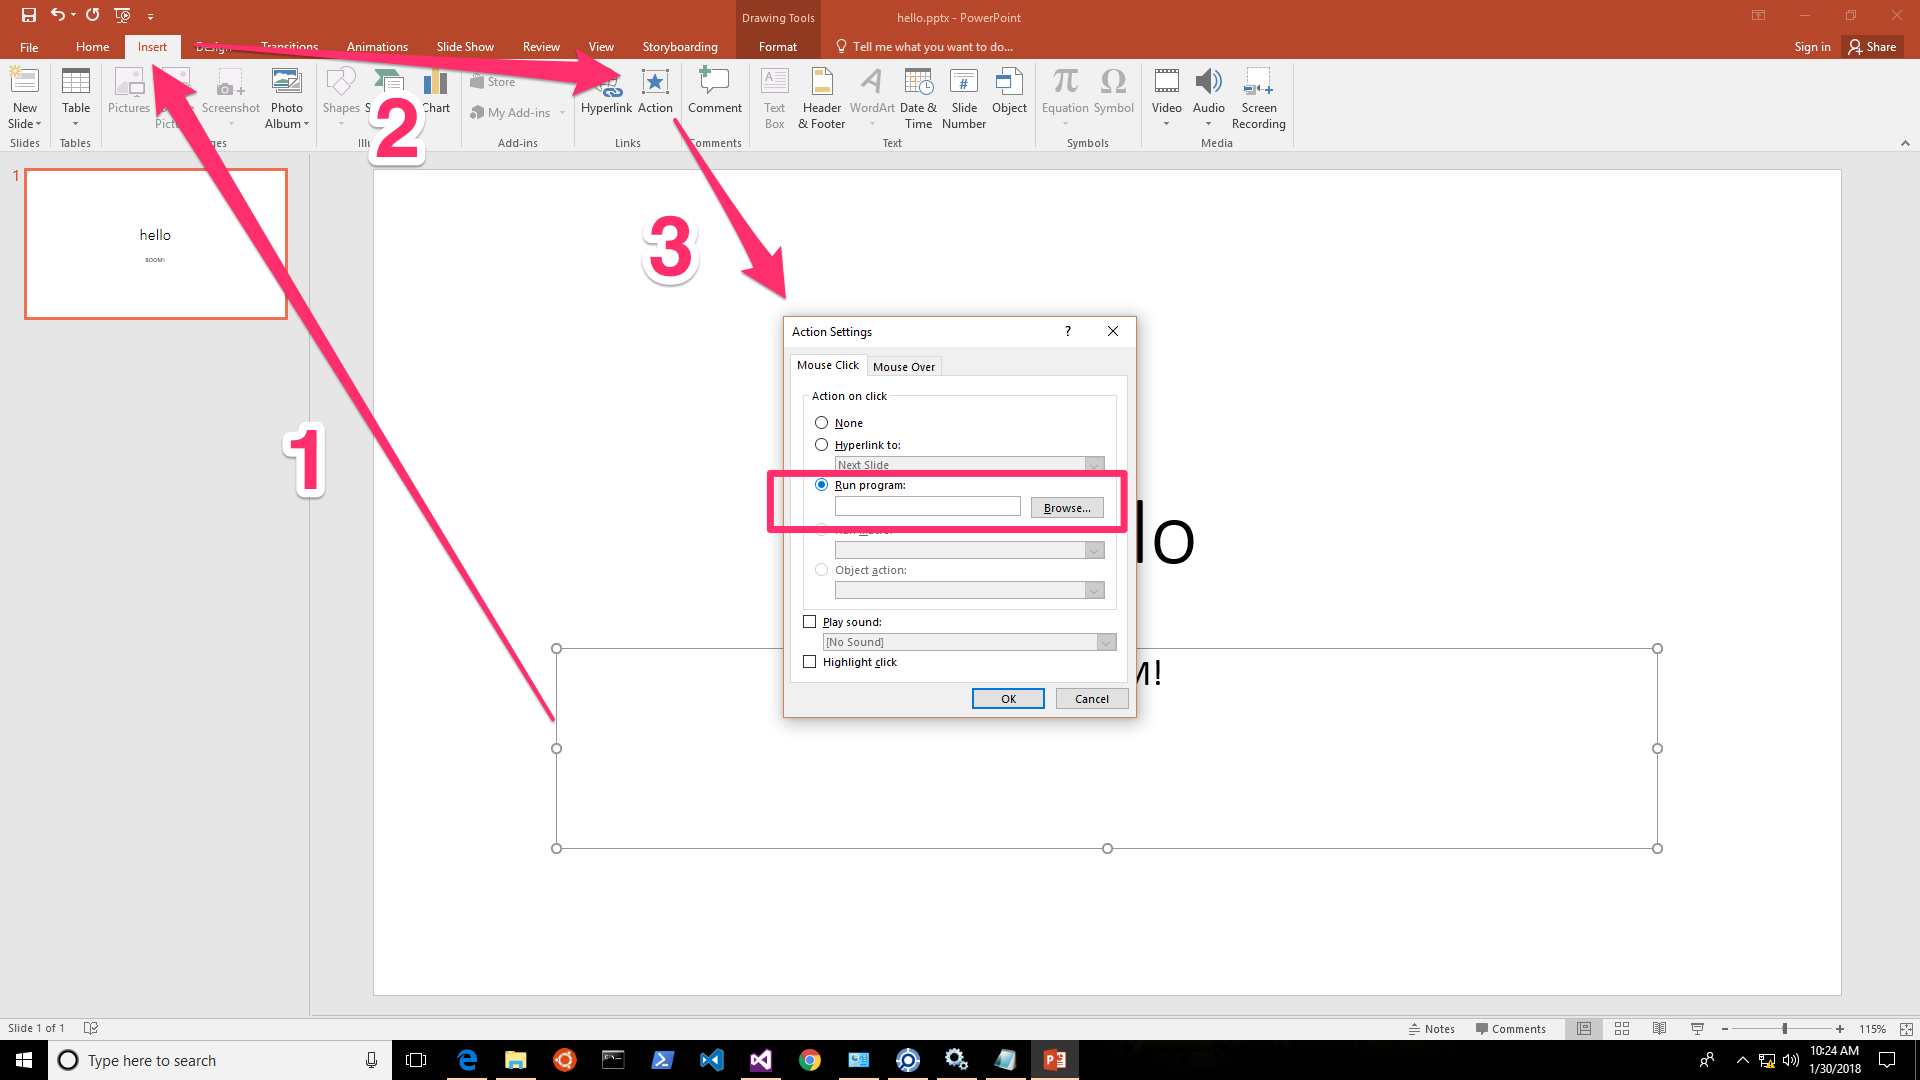
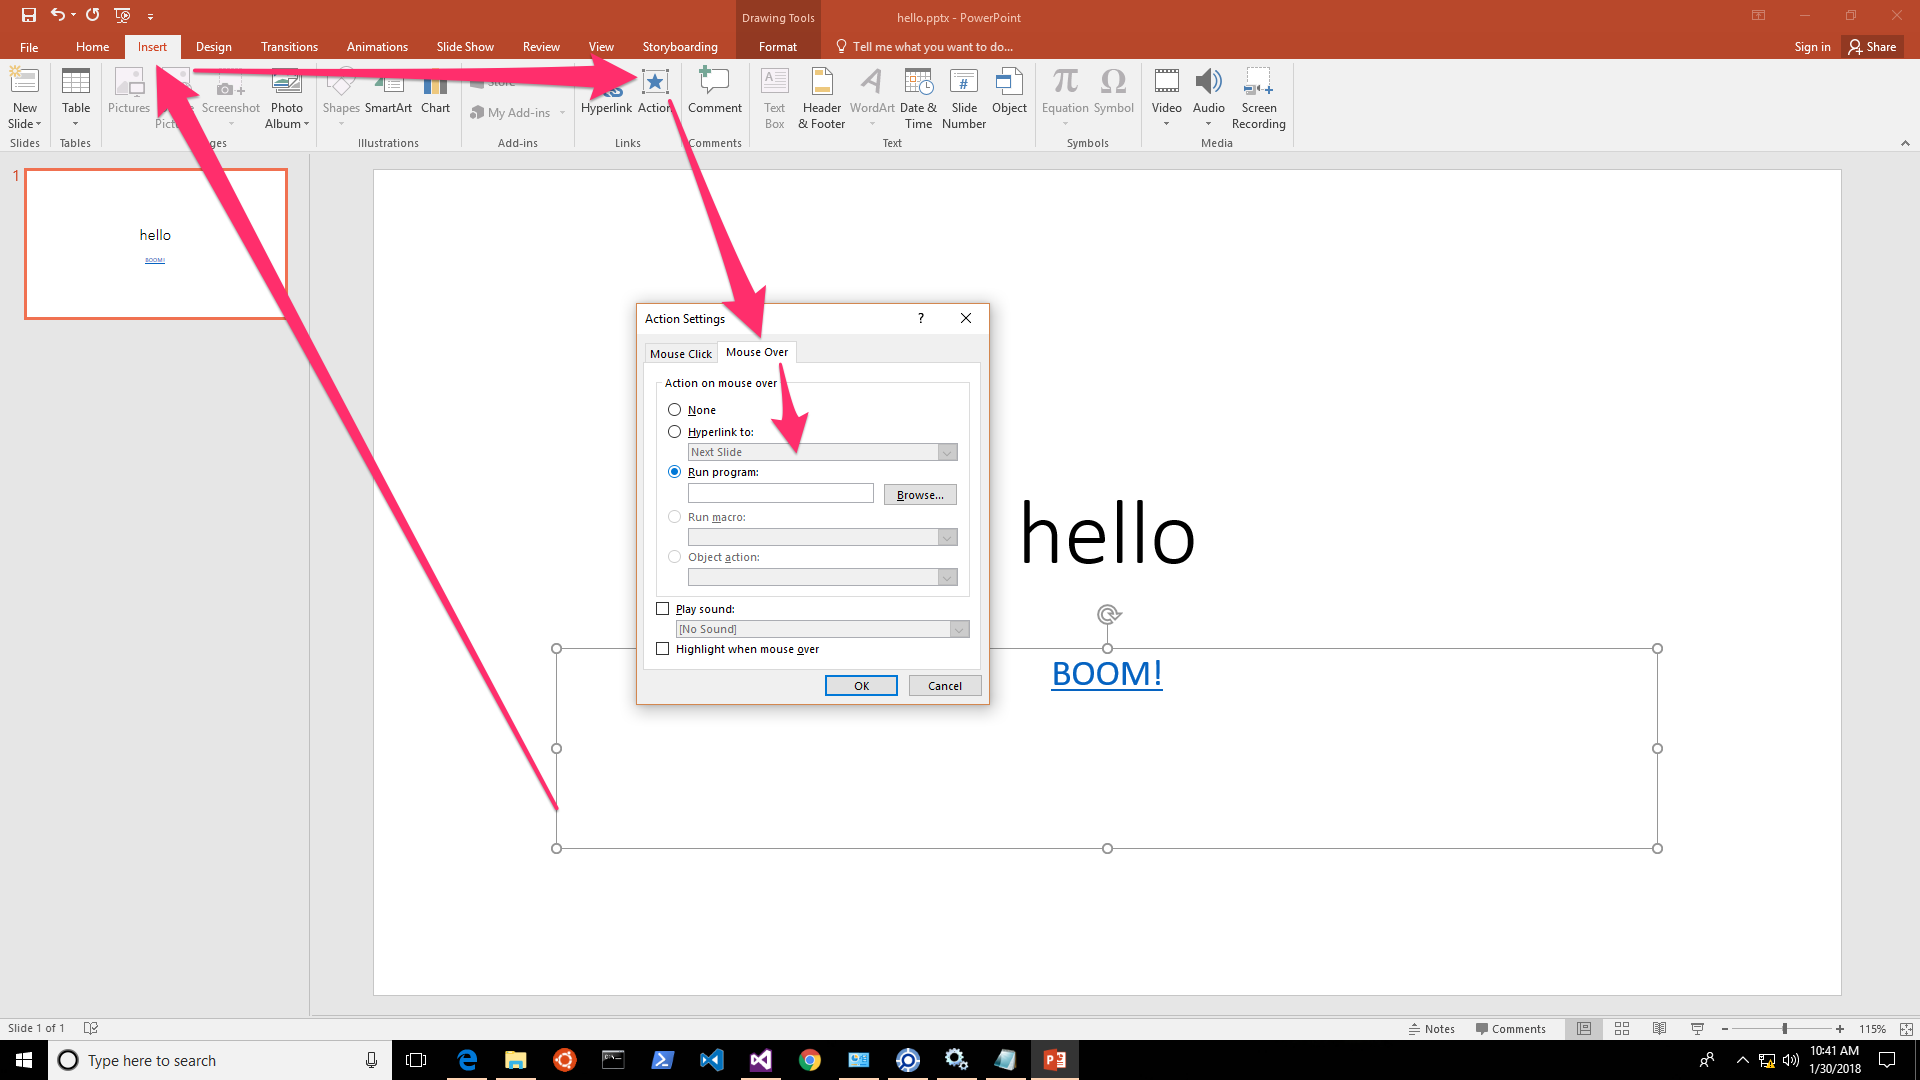
updated

diff --git a/6. Sample Data/stage 2 (Get In)/2. run payloads/(Type 2) Abuse MS PPT Mouse-over Action/README.md b/6. Sample Data/stage 2 (Get In)/2. run payloads/(Type 2) Abuse MS PPT Mouse-over Action/README.md
@@ -1,7 +1,7 @@
 # Abuse PowerPoint Actions
 
 ## Background
-This is a type 2, it's a feature not a bug ;) Nice for App-Control/Whitelisting evasion.
+This is a type 2, it's a feature not a bug ;) Nice for App-Control/Whitelisting evasion + social engineering/deception.
 
 ![](addaction.png)
 
@@ -9,3 +9,4 @@ This is a type 2, it's a feature not a bug ;) Nice for App-Control/Whitelisting 
 I will also use this sample to illustrate the idea of attack-chaining by linking it to [another sample which is Type 1 - Rundll32 Allthethings.dll](https://github.com/jymcheong/SysmonResources/tree/master/6.%20Sample%20Data/stage%202%20(Get%20In)/2.%20run%20payloads/(Type%201)%20Allthethings.dll%20with%20rundll32)
 
 ## Observations
+
